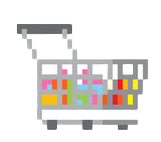
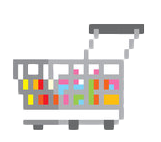
added NPC shoppers walking around and going to checkout.

diff --git a/sketch.js b/sketch.js
@@ -3,7 +3,6 @@ var dude;
 let item;
 const SPEED = 3;
 
-
 let NPCS = [];
 let KIDS = [];
 let children = []; 
@@ -11,17 +10,27 @@ let items = [];
 let activeItem = null;
 let itemsOnShelves = [];
 
-
 const MAX_CHILDREN = 3; 
 const CHILD_SPAWN_RATE = 0.01; 
 const CHILD_SCALE = 0.7; 
-
+const CHILD_COUNTDOWN_TIME = 600; // 10 seconds at 60fps
 
 const SHELVES = [
   { name: "top shelf", x: 0, y: 170, width: 300, height: 100, items: ["tissues", "sauce"] },
   { name: "middle shelf", x: 0, y: 440, width: 300, height: 100, items: ["waterbottle", "bottle"] },
   { name: "bottom shelf", x: 30, y: 700, width: 160, height: 100, items: ["corn"] }
 ];
+
+
+let npcs = [];
+const NPC_SPEED = 1.5;
+const NPC_SPAWN_RATE = 0.005; 
+const MAX_NPCS = 5;
+const SPAWN_POINT = { x: 450, y: 0 }; 
+
+const CART_OFFSET_X = 50;
+const CART_OFFSET_Y = 50;
+const CART_SCALE = 0.9;
 
 function preload() {
   dude = loadImage("imgs/dude.png");
@@ -52,8 +61,8 @@ function preload() {
   waterbottle = loadImage("imgs/waterbottle.png");
   tissues = loadImage("imgs/tissues.png");
   bottle = loadImage("imgs/bottle.png");
-
-  
+  crying = loadImage("imgs/crying.png");
+  bag = loadImage("imgs/bag.png")
 
   NPCS = [person1, person2, person3, person4, person5, person6, person7, person8, person9];
   KIDS = [child1, child2, child3, child4];
@@ -65,9 +74,6 @@ function preload() {
     { image: bottle, name: "bottle" }
   ];
 }
-
-
-
     
 function setup() {
   createCanvas(900, 900);
@@ -81,16 +87,19 @@ function setup() {
 
   spawnNewItem();
 
-
+  npcs = [];
 }
 
 function draw() {
   drawFloor();
   updateChildren();
   updateItems();
+  updateNPCs(); 
+  drawShoppingCarts();
+  drawBags();
 
-    player.draw();
 
+  player.draw();
 
   if (activeItem) {
     if (player.holding) {
@@ -100,12 +109,28 @@ function draw() {
     activeItem.draw();
   }
 
-
   for (let child of children) {
     child.draw();
+    
+    if (!child.isCrying) {
+      let progressWidth = map(child.countdown, 0, CHILD_COUNTDOWN_TIME, 0, 50);
+      
+      //progress bar
+      fill(255, 0, 0);
+      noStroke();
+      rect(child.x - 25, child.y - 60, 50, 10);
+      
+      fill(0, 255, 0);
+      rect(child.x - 25, child.y - 60, progressWidth, 10);
+    }
+    
+    if (child.isCrying) {
+      push(); 
+      imageMode(CENTER);
+      image(crying, child.x, child.y - 40, 75, 75); 
+      pop();
+    }
   }
-  
-
   
   fill(0);
   textSize(16);
@@ -116,13 +141,191 @@ function draw() {
   } else {
     text("Wait for next item to appear...", 20, 30);
   }
-
 }
+
+function drawShoppingCarts() {
+  for (let npc of npcs) {
+    if (npc.hasCart) {
+      push();
+      imageMode(CENTER);
+      
+      let cartX = npc.x - CART_OFFSET_X;
+      let cartY = npc.y + CART_OFFSET_Y;
+      
+      let cartImage = npc.cartFull ? shoppingCartFull : shoppingCart;
+      image(cartImage, cartX, cartY, cartImage.width * CART_SCALE, cartImage.height * CART_SCALE);
+      
+      pop();
+    }
+  }
+}
+
+function drawBags() {
+  for (let npc of npcs) {
+    
+      push();
+      imageMode(CENTER);
+      
+      let bagX = npc.x - CART_OFFSET_X;
+      let bagY = npc.y + CART_OFFSET_Y;
+      
+      if (npc.hasBag) {
+      image(bag, bagX, bagY, bag.width * 0.3, bag.height * 0.3);
+      }
+      pop();
+  }
+}
+
+
+
+function spawnNPC() {
+  if (npcs.length >= MAX_NPCS) return;
+  
+  let npc = new Sprite(SPAWN_POINT.x, SPAWN_POINT.y);
+  let randomNPCIndex = floor(random(0, NPCS.length));
+  npc.image = NPCS[randomNPCIndex];
+  npc.image.scale = 0.7;
+  npc.collider = 'dynamic';
+  npc.rotationLock = true;
+  
+  npc.state = 'entering'; // States: entering, browsing, checkout, leaving
+  npc.targetX = null;
+  npc.targetY = null;
+  npc.pauseTimer = 0;
+  npc.browsingTime = floor(random(180, 480)); // 3-8 seconds at 60fps
+  npc.isCheckout = random() < 0.7; // 70% chance to go to checkout, 30% to just leave
+  npc.hasCart = true; 
+  npc.cartFull = false; 
+  npc.hasBag = false;
+  npc.browseCounter = 0; 
+  npc.browseThreshold = floor(random(1, 60)); 
+
+  npc.browsingSpots = [
+    { x: 150, y: 300 },
+    { x: 150, y: 570 },
+    { x: 150, y: 750 },
+    { x: 400, y: 300 },
+    { x: 400, y: 570 },
+    { x: 600, y: 450 }
+  ];
+  
+  npc.targetY = 200;
+  
+  npcs.push(npc);
+}
+
+function updateNPCs() {
+  if (random() < NPC_SPAWN_RATE && npcs.length < MAX_NPCS) {
+    spawnNPC();
+  }
+  
+  for (let i = npcs.length - 1; i >= 0; i--) {
+    let npc = npcs[i];
+    
+    if (npc.pauseTimer > 0) {
+      npc.pauseTimer--;
+      npc.velocity.x = 0;
+      npc.velocity.y = 0;
+      
+      if (npc.state === 'browsing' && !npc.cartFull) {
+        npc.browseCounter++;
+        
+        if (npc.browseCounter >= npc.browseThreshold) {
+          npc.cartFull = true;
+        }
+
+      }
+      
+      continue;
+    }
+    
+    // state machine for NPC behavior
+    switch (npc.state) {
+      case 'entering':
+        // move down from top
+        if (npc.targetY !== null && abs(npc.y - npc.targetY) > 5) {
+          npc.velocity.y = NPC_SPEED;
+          npc.velocity.x = 0;
+        } else {
+          // after moving down, choose a browsing spot
+          npc.state = 'browsing';
+          let spot = random(npc.browsingSpots);
+          npc.targetX = spot.x;
+          npc.targetY = spot.y;
+          npc.pauseTimer = 30; 
+        }
+        break;
+        
+      case 'browsing':
+          // move to browsing spot in an L shape
+        if (npc.targetX !== null && abs(npc.x - npc.targetX) > 5) {
+          npc.velocity.x = npc.x < npc.targetX ? NPC_SPEED : -NPC_SPEED;
+          npc.velocity.y = 0;
+        } else if (npc.targetY !== null && abs(npc.y - npc.targetY) > 5) {
+          npc.velocity.y = npc.y < npc.targetY ? NPC_SPEED : -NPC_SPEED;
+          npc.velocity.x = 0;
+        } else {
+          // pause and browse
+          npc.velocity.x = 0;
+          npc.velocity.y = 0;
+          npc.pauseTimer = npc.browsingTime;
+          
+          if (npc.isCheckout) {
+            npc.state = 'checkout';
+            npc.targetX = 700;
+            npc.targetY = 200; 
+          } else {
+            npc.state = 'leaving';
+            npc.targetX = SPAWN_POINT.x;
+            npc.targetY = SPAWN_POINT.y;
+          }
+        }
+        break;
+        
+      case 'checkout':
+        // moving to checkout in L shape
+        if (npc.targetX !== null && abs(npc.x - npc.targetX) > 5) {
+          npc.velocity.x = npc.x < npc.targetX ? NPC_SPEED : -NPC_SPEED;
+          npc.velocity.y = 0;
+        } else if (npc.targetY !== null && abs(npc.y - npc.targetY) > 5) {
+          npc.velocity.y = npc.y < npc.targetY ? NPC_SPEED : -NPC_SPEED;
+          npc.velocity.x = 0;
+        } else {
+          npc.velocity.x = 0;
+          npc.velocity.y = 0;
+          npc.pauseTimer = 180; // 3 seconds checkout time
+          
+          npc.state = 'leaving';
+          npc.hasCart = false;
+          npc.hasBag = true;
+          npc.targetX = SPAWN_POINT.x;
+          npc.targetY = SPAWN_POINT.y;
+        }
+        break;
+        
+      case 'leaving':
+        if (npc.targetY !== null && abs(npc.y - npc.targetY) > 5) {
+          npc.velocity.y = npc.y < npc.targetY ? NPC_SPEED : -NPC_SPEED;
+          npc.velocity.x = 0;
+        } else if (npc.targetX !== null && abs(npc.x - npc.targetX) > 5) {
+          npc.velocity.x = npc.x < npc.targetX ? NPC_SPEED : -NPC_SPEED;
+          npc.velocity.y = 0;
+        } else {
+          npc.remove();
+          npcs.splice(i, 1);
+        }
+        break;
+    }
+    
+    npc.draw();
+  }
+}
+
+
 
 function spawnNewItem() {
   if (activeItem) return; // don't spawn if there's already an active item
   
-
   activeItem = new Sprite(320, 320);
   let randomItemIndex = floor(random(0, ITEMS.length));
   let selectedItem = ITEMS[randomItemIndex];
@@ -133,8 +336,6 @@ function spawnNewItem() {
   activeItem.image.scale = 0.7;
   activeItem.collider = 'static';
 }
-
-
 
 function updateItems() {
   if (activeItem && !player.holding && player.overlaps(activeItem)) {
@@ -165,7 +366,6 @@ function updateItems() {
   }
 }
 
-
 function placeItemOnShelf(shelf) {
   player.holding = false;
   activeItem.remove();
@@ -175,8 +375,6 @@ function placeItemOnShelf(shelf) {
   setTimeout(spawnNewItem, 2000);
 }
 
-
-
 function updateChildren() {
   if (random() < CHILD_SPAWN_RATE && children.length < MAX_CHILDREN) {
     spawnChild();
@@ -184,6 +382,12 @@ function updateChildren() {
   
   for (let i = children.length - 1; i >= 0; i--) {
     let child = children[i];
+    
+    child.countdown--;
+    
+    if (child.countdown <= 0 && !child.isCrying) {
+      child.isCrying = true;
+    }
     
     if (player.overlaps(child)) {
       child.remove();
@@ -200,7 +404,9 @@ function spawnChild() {
   child.image = KIDS[randomImageIndex]; 
   child.image.scale = CHILD_SCALE;
   child.collider = 'static'; 
-
+  
+  child.countdown = CHILD_COUNTDOWN_TIME;
+  child.isCrying = false;
   
   let validPosition = false;
   let childX, childY;
@@ -226,7 +432,6 @@ function spawnChild() {
     if (childX > 30 && childX < 190 && childY > 700 && childY < 720) {
       validPosition = false;
     }
-
   }
   
   child.x = childX;
@@ -237,7 +442,6 @@ function spawnChild() {
   
   children.push(child);
 }
-
 
 function mouseClicked() {
   print(mouseX, mouseY);
@@ -269,13 +473,8 @@ function keyReleased() {
   }
 }
 
-
-
-
-
 function drawFloor() {
   background(160, 235, 219);
-  
   
   strokeWeight(2);
   stroke(0);
@@ -292,6 +491,4 @@ function drawFloor() {
   image(cardbox, 230, 250, 200, 200);
   image(shelf3, 30, 700, 100, 100);
   image(shelf4, 190, 710, 100, 100);
-  
 }
-
